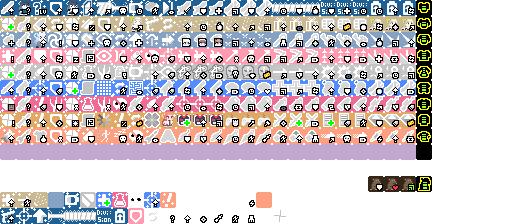
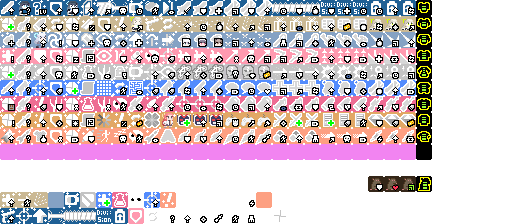
미카 시그니처 색깔 변경

Changed region(s): [[0.0, 0.625, 0.8125, 0.7188]]

diff --git a/core/src/main/java/com/shatteredpixel/shatteredpixeldungeon/actors/buffs/CallOfStar.java b/core/src/main/java/com/shatteredpixel/shatteredpixeldungeon/actors/buffs/CallOfStar.java
@@ -97,7 +97,7 @@ public class CallOfStar extends CounterBuff implements ActionIndicator.Action {
 
     @Override
     public int indicatorColor() {
-        return 0xC2A8CF;
+        return 0xF284F1;
     }
 
     @Override
@@ -282,7 +282,7 @@ public class CallOfStar extends CounterBuff implements ActionIndicator.Action {
 
         @Override
         public void tintIcon(Image icon) {
-            icon.hardlight(0xC2A8CF);
+            icon.hardlight(0xF284F1);
         }
 
         @Override

diff --git a/core/src/main/java/com/shatteredpixel/shatteredpixeldungeon/actors/buffs/LittleAngry.java b/core/src/main/java/com/shatteredpixel/shatteredpixeldungeon/actors/buffs/LittleAngry.java
@@ -51,7 +51,7 @@ public class LittleAngry extends Buff implements ActionIndicator.Action {
 
     @Override
     public int indicatorColor() {
-        return 0xC2A8CF;
+        return 0xF284F1;
     }
 
     @Override
@@ -139,7 +139,7 @@ public class LittleAngry extends Buff implements ActionIndicator.Action {
 
         @Override
         public void tintIcon(Image icon) {
-            icon.hardlight(0xC2A8CF);
+            icon.hardlight(0xF284F1);
         }
     }
 }

diff --git a/core/src/main/java/com/shatteredpixel/shatteredpixeldungeon/actors/hero/abilities/mika/PerfectDeception.java b/core/src/main/java/com/shatteredpixel/shatteredpixeldungeon/actors/hero/abilities/mika/PerfectDeception.java
@@ -122,7 +122,7 @@ public class PerfectDeception extends ArmorAbility {
 
         @Override
         public void tintIcon(Image icon) {
-            icon.hardlight(0xC2A8CF);
+            icon.hardlight(0xF284F1);
         }
 
         @Override

diff --git a/core/src/main/java/com/shatteredpixel/shatteredpixeldungeon/actors/hero/Talent.java b/core/src/main/java/com/shatteredpixel/shatteredpixeldungeon/actors/hero/Talent.java
@@ -2368,7 +2368,7 @@ public enum Talent {
 
 		@Override
 		public void tintIcon(Image icon) {
-			icon.hardlight(0xC2A8CF);
+			icon.hardlight(0xF284F1);
 		}
 
 		@Override
